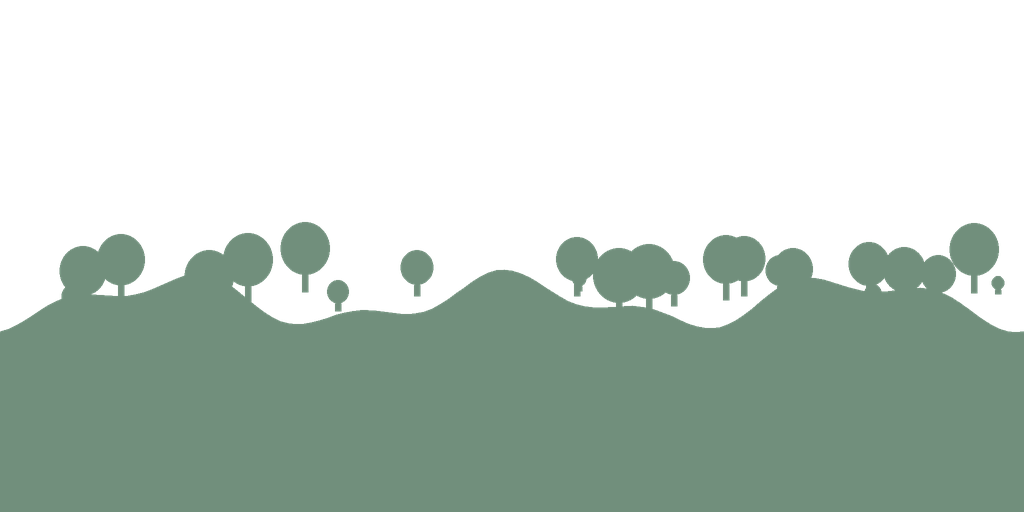
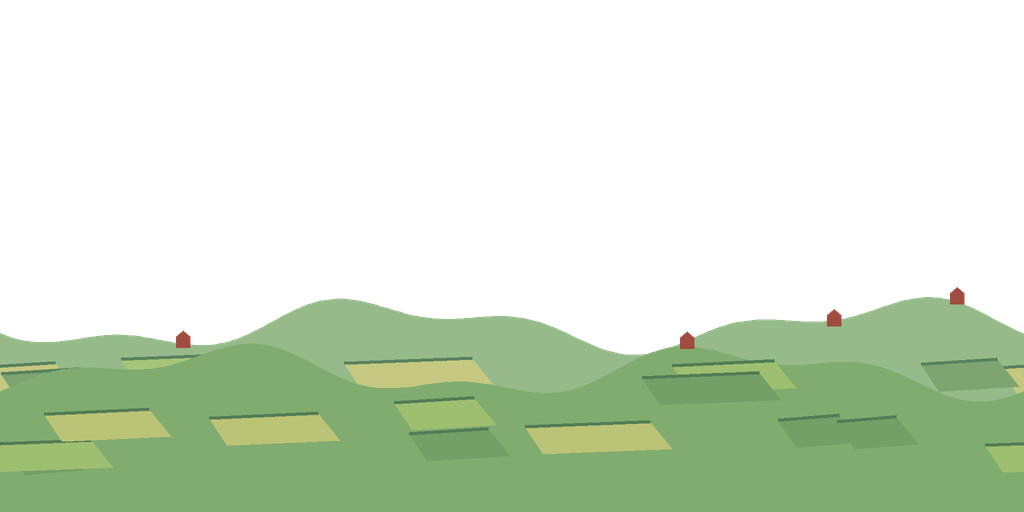
[Art] Rebuild Meadow with distinct layer motifs (#610)
* Rebuild Meadow with distinct layer motifs (#606)

* Remove the doubled Meadow fence and correct provenance (#606)

---------

diff --git a/tools/art/background_presets.py b/tools/art/background_presets.py
@@ -31,6 +31,124 @@ def mix(a, b, t):
     return tuple(round(x + (y-x)*t) for x, y in zip(a, b))
 
 
+def meadow_layer(slot, rng, polygon, ellipse, draw, w, h, scale, period):
+    """One distinct motif per depth: sky, far peaks, farmland, forest, near meadow, foreground grass."""
+    def ridge(base, waves):
+        points = []
+        for x in range(-64, w+65, 4):
+            phase = 2*math.pi*x/period
+            points.append((x, base+sum(a*math.sin(phase*n+o) for a, n, o in waves)))
+        return points
+
+    def land(points, colour):
+        polygon(points+[(w+64, h+2), (-64, h+2)], (*colour, 255))
+
+    def height_at(points, x):
+        x %= period
+        return min(points, key=lambda p: abs(p[0]-x))[1]
+
+    if slot == 0:
+        top, bottom = (92, 158, 204), (236, 234, 200)
+        for y in range(h*scale):
+            draw.line((0, y, w*scale, y), fill=(*mix(top, bottom, (y/(h*scale-1))**.8), 255))
+        # Layered cumulus: bright crowns over a soft, sky-tinted base.
+        for _ in range(6):
+            x, y, size = rng.randrange(period), rng.randrange(36, 120), rng.randrange(22, 54)
+            sky = mix(top, bottom, y/h)
+            puffs = [(x+rng.randint(-size*2, size*2), y+rng.randint(-size//5, size//6), rng.randint(size//2, size))
+                     for _ in range(9)]
+            for shade, lift in ((.45, -.05), (.8, .16), (.97, .3)):
+                colour = mix(sky, (255, 253, 244), shade)
+                for px, py, r in puffs:
+                    r = r*(1-lift*.6)
+                    ellipse((px-r*1.25, py-r*(.55+lift)-lift*12, px+r*1.25, py+r*.34-lift*12), (*colour, 255))
+    elif slot == 1:
+        # Far blue peaks with snow caps; hazy, widely spaced, no trees.
+        rock, snow = (136, 165, 186), (230, 238, 240)
+        for _ in range(7):
+            x, base, half = rng.randrange(period), 330, rng.randrange(70, 170)
+            peak = rng.randrange(120, 210)
+            mid = x+rng.randint(-half//4, half//4)
+            polygon([(x-half, base+40), (mid, peak), (x+half, base+40)], (*rock, 255))
+            polygon([(mid, peak), (x+half, base+40), (mid+half*.1, base+40)], (*mix(rock, (104, 132, 158), .55), 255))
+            cap = .22
+            lx, rx = mid+(x-half-mid)*cap, mid+(x+half-mid)*cap
+            ly = peak+(base+40-peak)*cap
+            polygon([(mid, peak), (rx, ly), (mid+(rx-mid)*.35, ly+9), (mid, ly-3), (mid-(mid-lx)*.4, ly+11), (lx, ly)], (*snow, 255))
+        land(ridge(345, [(9, 3, .4), (5, 7, 1.2)]), (150, 178, 186))
+    elif slot == 2:
+        # Sunlit farmland: rolling hills cut into field strips, hedges and tiny barns.
+        for base, colour, seed_offset in ((325, (150, 186, 138), 0), (372, (128, 172, 112), 2)):
+            line = ridge(base, [(20, 2, seed_offset), (10, 5, 1+seed_offset)])
+            land(line, colour)
+            for _ in range(11):
+                x, width = rng.randrange(period), rng.randrange(50, 130)
+                y = height_at(line, x)+rng.randrange(14, 70)
+                tone = mix(colour, rng.choice([(226, 210, 122), (178, 204, 112), (108, 150, 96)]), .6)
+                polygon([(x, y), (x+width, y-5), (x+width+22, y+22), (x+18, y+27)], (*tone, 255))
+                polygon([(x, y-2), (x+width, y-7), (x+width, y-4), (x, y+1)], (*mix(colour, (62, 104, 74), .7), 255))
+        for _ in range(4):
+            x = rng.randrange(period)
+            y = height_at(ridge(325, [(20, 2, 0), (10, 5, 1)]), x)+5
+            polygon([(x, y), (x, y-11), (x+7, y-17), (x+14, y-11), (x+14, y)], (160, 76, 62, 255))
+    elif slot == 3:
+        # Dense forest edge: mixed conifers and round crowns, darker toward the ground.
+        dark, mid_tone, light = (44, 92, 80), (62, 116, 92), (86, 142, 104)
+        line = ridge(372, [(12, 3, 1.1), (6, 8, .3)])
+        land(line, dark)
+        trees = [(rng.randrange(period), rng.random(), rng.randrange(42, 104)) for _ in range(120)]
+        for x, kind, tall in sorted(trees, key=lambda t: t[2], reverse=True):
+            y = height_at(line, x)+12
+            if kind < .55:
+                for tier in range(4):
+                    top = y-tall+tier*tall*.2
+                    half = tall*(.13+tier*.055)
+                    polygon([(x-half, top+tall*.36), (x, top), (x+half, top+tall*.36)], (*(dark if tier % 2 else mid_tone), 255))
+            else:
+                r = tall*.32
+                ellipse((x-r, y-tall*.85, x+r, y-tall*.2), (*mid_tone, 255))
+                ellipse((x-r*.75, y-tall*.84, x+r*.35, y-tall*.46), (*light, 255))
+                polygon([(x-3, y), (x+3, y), (x+2, y-tall*.3), (x-2, y-tall*.3)], (*dark, 255))
+    elif slot == 4:
+        # Near meadow: a warm grass bank with bushes, a fence and flower dots.
+        grass, shade = (92, 144, 72), (66, 118, 62)
+        line = ridge(425, [(16, 2, 2.1), (7, 5, .6)])
+        for _ in range(16):
+            x, r = rng.randrange(period), rng.randrange(18, 50)
+            y = height_at(line, x)+6
+            ellipse((x-r*1.3, y-r, x+r*1.3, y+r*.5), (*shade, 255))
+            ellipse((x-r*.8, y-r*.92, x+r*.5, y-r*.1), (*grass, 255))
+        land(line, grass)
+        for start in range(0, 1020, 340):
+            for i in range(6):
+                x = start+40+i*30
+                y = height_at(line, x)
+                polygon([(x-2, y+3), (x+2, y+3), (x+2, y-27), (x-2, y-27)], (118, 92, 66, 255))
+                if i < 5:
+                    y2 = height_at(line, x+30)
+                    polygon([(x, y-20), (x+30, y2-20), (x+30, y2-17), (x, y-17)], (138, 110, 78, 255))
+        for _ in range(170):
+            x = rng.randrange(period)
+            y = height_at(line, x)+rng.randrange(8, 80)
+            colour = rng.choice([(244, 232, 150), (246, 246, 236), (226, 134, 150), (112, 170, 84)])
+            ellipse((x-1.6, y-1.6, x+1.6, y+1.6), (*colour, 255))
+    else:
+        # Foreground: a low dark grass and fern fringe, under a fifth of the image high.
+        dark, tone = (26, 58, 44), (38, 76, 54)
+        line = ridge(474, [(5, 3, .7), (3, 9, 1.9)])
+        land(line, dark)
+        for _ in range(620):
+            x = rng.randrange(period)
+            y = height_at(line, x)+3
+            tall, lean = rng.randrange(10, 42), rng.randint(-11, 11)
+            polygon([(x-2.2, y), (x+2.2, y), (x+lean, y-tall)], (*(tone if rng.random() < .35 else dark), 255))
+        for _ in range(13):
+            x, y = rng.randrange(period), 468
+            for frond in range(-3, 4):
+                tip = (x+frond*11, y-44+abs(frond)*7)
+                polygon([(x-2, y+6), (x+2, y+6), tip], (*dark, 255))
+
+
 def image_for(preset, slot):
     seed, _, colours = PRESETS[preset]
     colours = [rgb(c) for c in colours]
@@ -50,7 +168,9 @@ def image_for(preset, slot):
             x0, y0, x1, y1 = box
             draw.ellipse(((x0+offset)*scale, y0*scale, (x1+offset)*scale, y1*scale), fill=colour)
 
-    if slot == 0:
+    if preset == 'meadow':
+        meadow_layer(slot, rng, polygon, ellipse, draw, w, h, scale, period)
+    elif slot == 0:
         for y in range(h*scale):
             draw.line((0, y, w*scale, y), fill=(*mix(colours[0], colours[1], y/(h*scale-1)), 255))
         # Thin, soft cloud banks, not a fixed sun repeated every tile.
@@ -81,13 +201,6 @@ def image_for(preset, slot):
                         if rng.random() < .35:
                             colour = mix(base, colours[1], .25 if slot < 4 else .4)
                             polygon([(wx,wy),(wx+3,wy),(wx+3,wy+5),(wx,wy+5)], (*colour,255))
-        elif preset == 'meadow':
-            for _ in range(24):
-                x = rng.randrange(period)
-                y = baseline+rng.randrange(-10, 25)
-                height = rng.randrange(18, 75) if not foreground else rng.randrange(12, 32)
-                polygon([(x-3,y),(x+3,y),(x+2,y-height),(x-2,y-height)], (*base,255))
-                ellipse((x-height*.35,y-height,x+height*.35,y-height*.25), (*base,255))
         else:
             for _ in range(28):
                 x = rng.randrange(period)
@@ -109,10 +222,14 @@ def image_for(preset, slot):
     return image
 
 
-def thumbnail(layers):
+def thumbnail(layers, preset=''):
     result = layers[0].copy()
     for layer in layers[1:5]:
         result.alpha_composite(layer)
+    # #603 shows the complete foreground at viewport height; other presets keep their strip until they are rebuilt.
+    if preset == 'meadow':
+        result.alpha_composite(layers[5])
+        return result.resize(THUMB, Image.Resampling.LANCZOS)
     # Runtime confines foreground to a lower safe strip; show that separate strip here.
     fg = layers[5].crop((0,384,1024,512)).resize((1024,64), Image.Resampling.LANCZOS)
     result.alpha_composite(fg, (0,448))
@@ -130,7 +247,7 @@ def write():
         folder = OUT/preset
         folder.mkdir(exist_ok=True)
         layers = [image_for(preset, slot) for slot in range(6)]
-        images = layers+[thumbnail(layers)]
+        images = layers+[thumbnail(layers, preset)]
         entries = {}
         for filename, image in zip(FILES, images):
             path = folder/f'{filename}.png'
@@ -183,7 +300,7 @@ def check(out=OUT):
                             errors.append('sky is not opaque')
                     elif alpha.crop((0,0,1024,1)).getextrema() != (0,0) or alpha.getextrema() != (0,255):
                         errors.append('overlay alpha differs')
-            if len(images) == 7 and images[-1].tobytes() != thumbnail(images[:6]).tobytes():
+            if len(images) == 7 and images[-1].tobytes() != thumbnail(images[:6], preset['id']).tobytes():
                 errors.append('thumbnail differs from layers')
     except (OSError, ValueError, KeyError, TypeError) as exc:
         errors.append(str(exc))

diff --git a/main/background_presets/PROVENANCE.md b/main/background_presets/PROVENANCE.md
@@ -4,6 +4,8 @@ Every pixel is generated by `tools/art/background_presets.py` using Pillow from 
 
 Run `python tools/art/background_presets.py --write` to reproduce all outputs; `--check` verifies the committed files without a source archive. `manifest.json` records generator/file/raw RGBA hashes, dimensions, stable IDs and fixed seeds. The generator contains all palettes and geometry inputs. The licence is in `License.txt`.
 
-Each of Meadow, Quarry, City and Volcano has five 1024×512 RGBA background layers, one 1024×512 RGBA foreground and a 256×128 composited thumbnail. Layer 1 is opaque sky; layers 2–5 and foreground have transparent upper regions. Horizontal endpoints match after antialiasing. Vertical edge pixels, including alpha, extend under the runtime's clamp rule. Foreground composition remains subject to the runtime vehicle-safe strip.
+Each of Meadow, Quarry, City and Volcano has five 1024×512 RGBA background layers, one 1024×512 RGBA foreground and a 256×128 composited thumbnail. Layer 1 is opaque sky; layers 2–5 and foreground have transparent upper regions. Horizontal endpoints match after antialiasing. Vertical edge pixels, including alpha, extend under the runtime's clamp rule. Meadow's foreground is authored for #603's full-height, bottom-anchored display.
 
-The set uses muted distant shapes and stronger near silhouettes: trees and hills, cut stone, an original city skyline, and volcanic rock with small amber fissures. These are static environment art, with no weather or animation. Claudio judges art direction in #549; pixel checks establish technical integrity only. Kenney test fixtures are separate and remain unchanged.
+Meadow (#606) uses a separate motif per depth: cumulus sky, snow-capped far peaks, farmland with hedges and barns, mixed forest, a near meadow with bushes, fence and flowers, and a low grass and fern foreground. The other presets stay unchanged until Claudio accepts this direction.
+
+The other sets use muted distant shapes and stronger near silhouettes: cut stone, an original city skyline, and volcanic rock with small amber fissures. All presets are static environment art, with no weather or animation. Claudio judges art direction in #549 and, for Meadow, #606; pixel checks establish technical integrity only. Kenney test fixtures are separate and remain unchanged.
